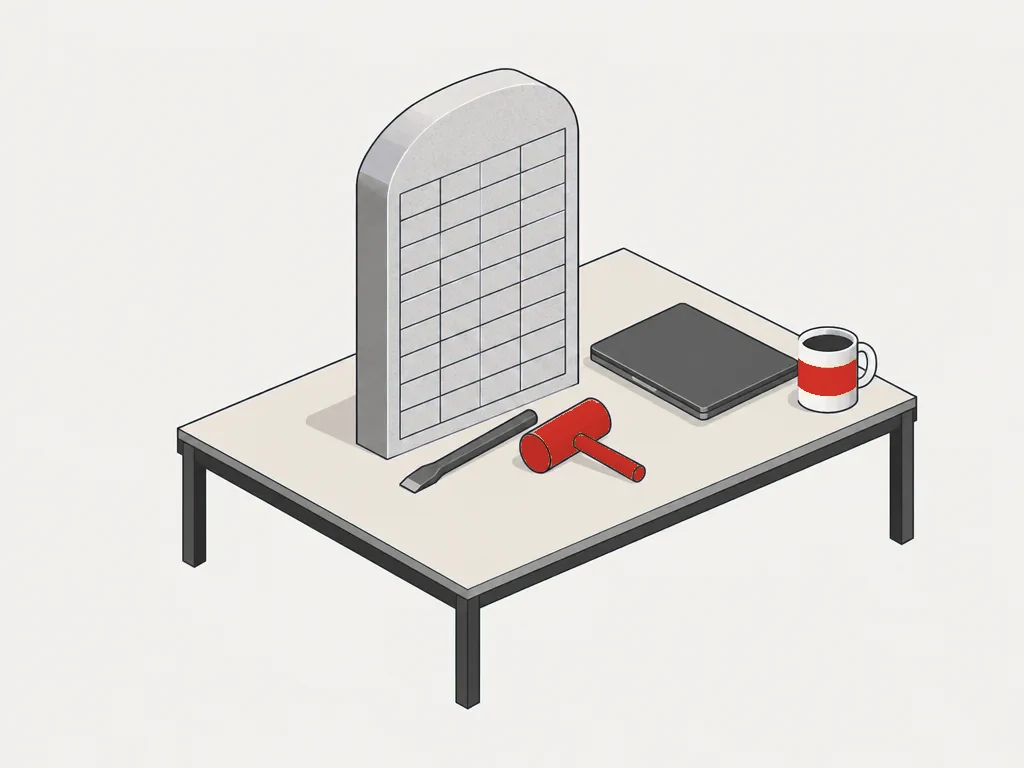
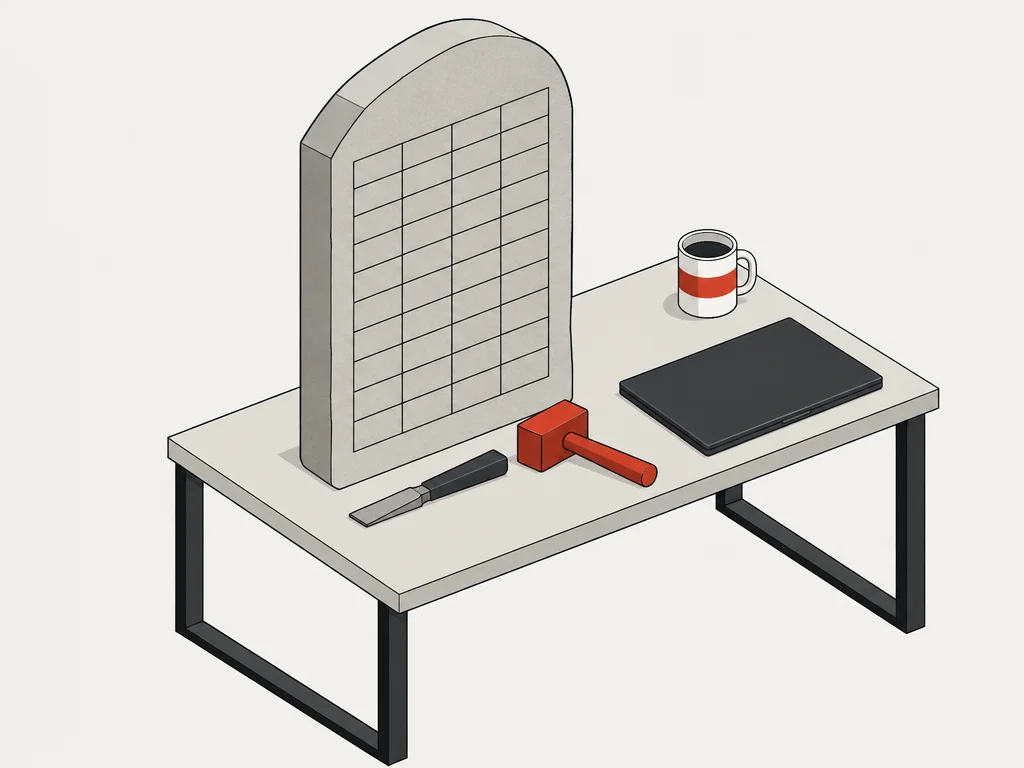
Redraw the illustrations in the V1 palette with OpenAI
Same five scenes, generated from text in ink, warm greys and one signal
red detail each, in place of the programmatic recolour of V2's set.

Changed region(s): [[0.1562, 0.0, 0.9375, 1.0]]

diff --git a/src/utils/ilustraciones.ts b/src/utils/ilustraciones.ts
@@ -1,5 +1,4 @@
 import type { Ilustracion } from "@data/landing";
-import cajitasConectadas from "@assets/ilustraciones/cajitas-conectadas.webp";
 import chatPedidos from "@assets/ilustraciones/chat-pedidos.webp";
 import llaves from "@assets/ilustraciones/llaves.webp";
 import tablaPiedra from "@assets/ilustraciones/tabla-piedra.webp";
@@ -7,7 +6,6 @@ import torreExcel from "@assets/ilustraciones/torre-excel.webp";
 import unaCajita from "@assets/ilustraciones/una-cajita.webp";
 
 export const ilustraciones: Record<Ilustracion, ImageMetadata> = {
-  "cajitas-conectadas": cajitasConectadas,
   "chat-pedidos": chatPedidos,
   llaves,
   "tabla-piedra": tablaPiedra,

diff --git a/src/data/landing/tipos.ts b/src/data/landing/tipos.ts
@@ -3,8 +3,7 @@ export type Ilustracion =
   | "chat-pedidos"
   | "tabla-piedra"
   | "una-cajita"
-  | "llaves"
-  | "cajitas-conectadas";
+  | "llaves";
 
 export type Falla = {
   n: string;
